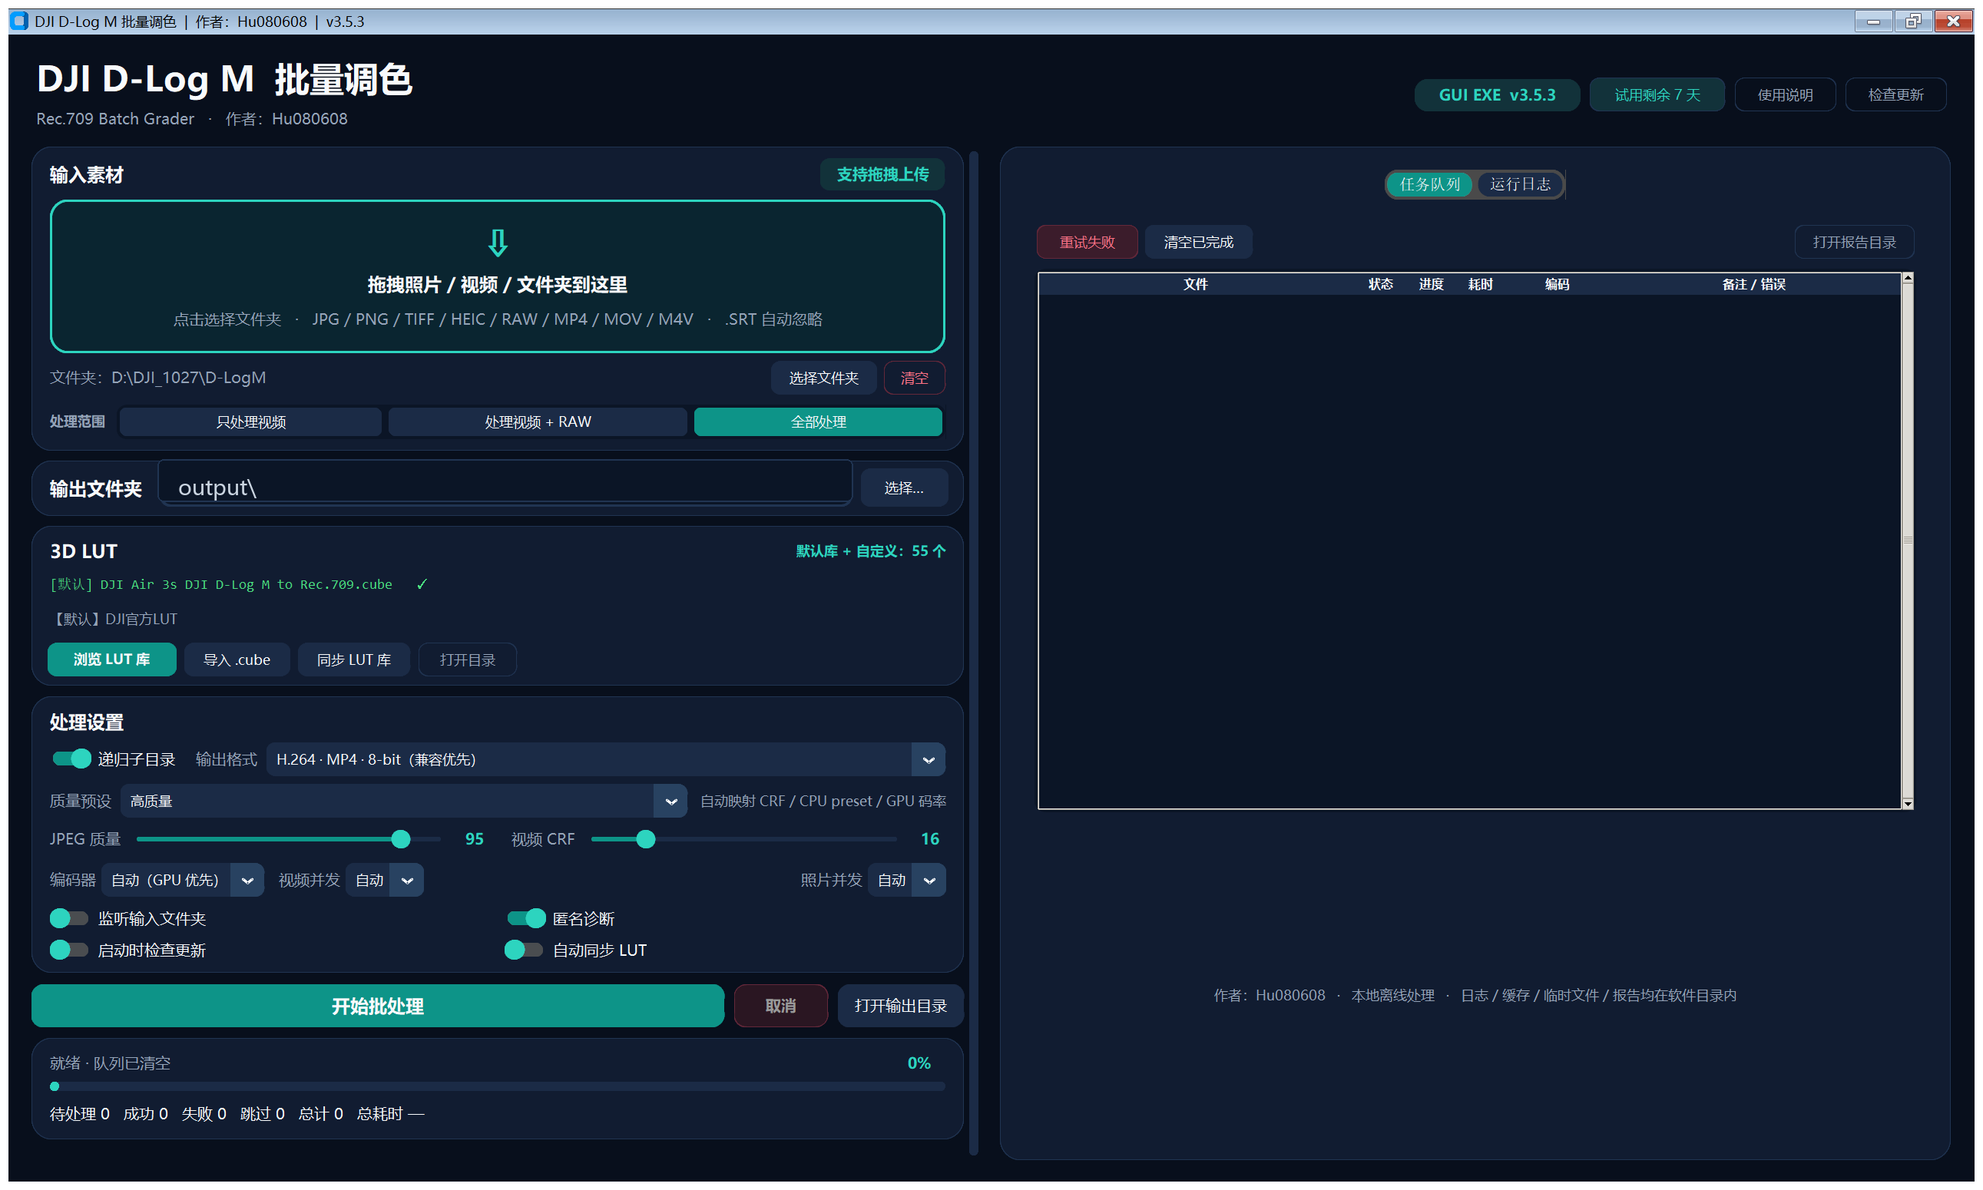
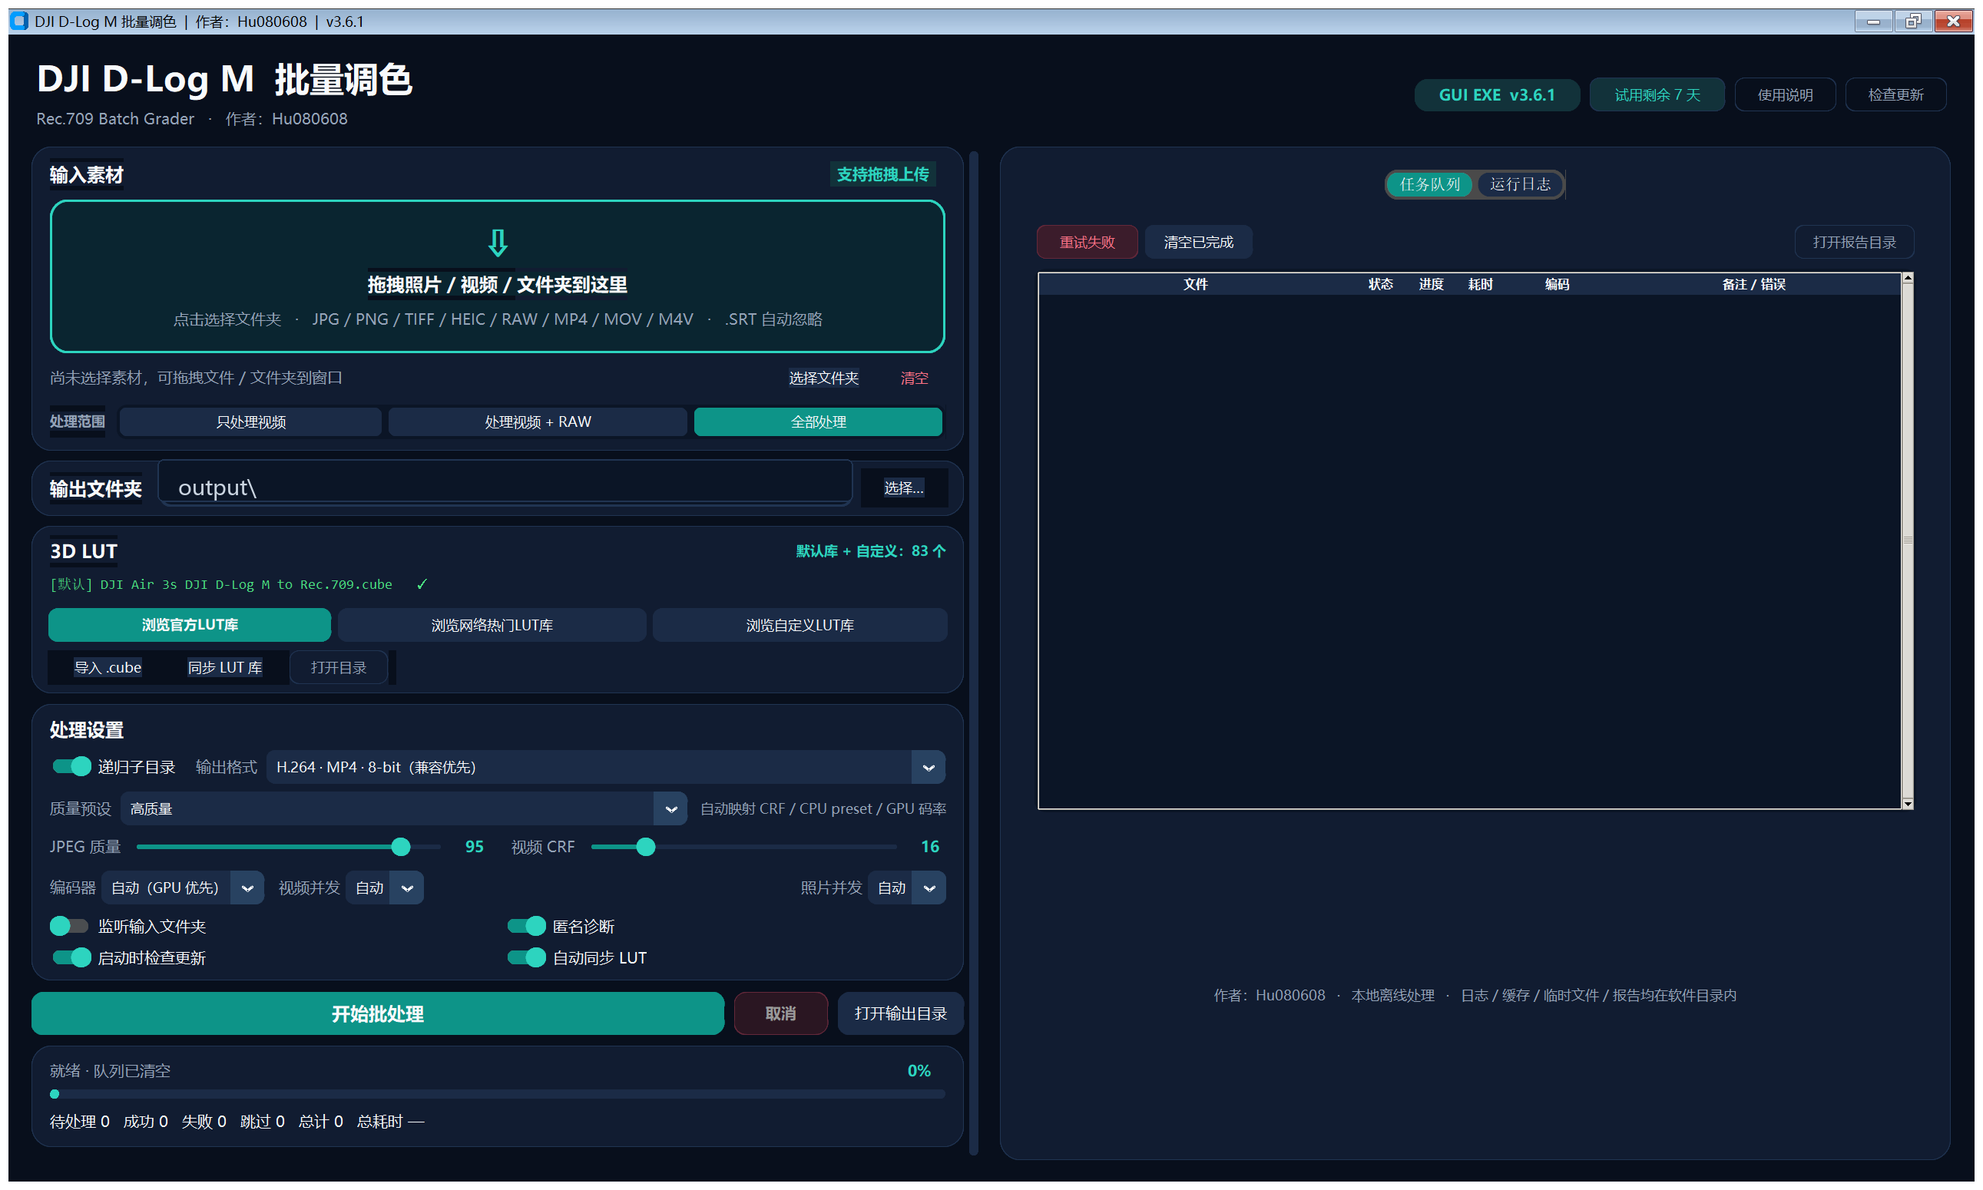
feat: split LUT browsers and shorten update prompt

diff --git a/dlog_grader/gui.py b/dlog_grader/gui.py
@@ -34,7 +34,7 @@ from .processor import (
     BatchProcessor, BatchResult, is_file_in_scope, normalize_scope,
 )
 from .watcher import FolderWatcher
-from .updater import check_for_update, launch_updater
+from .updater import check_for_update, extract_update_summary, launch_updater
 
 # Palette
 BG = "#080f1c"
@@ -415,17 +415,30 @@ class GraderGUI:
             text_color=OK, anchor="w", justify="left", wraplength=545,
         )
         self.lut_status_label.grid(row=1, column=0, sticky="ew", padx=16)
-        ctk.CTkLabel(
+        self.lut_meta_label = ctk.CTkLabel(
             card, textvariable=self.lut_meta_var, font=FONT_SMALL,
-            text_color=MUTED, anchor="w", justify="left", wraplength=560,
-        ).grid(row=2, column=0, sticky="ew", padx=16, pady=(2, 0))
+            text_color=MUTED, anchor="w", justify="left", wraplength=540,
+        )
+        self.lut_meta_label.grid(row=2, column=0, sticky="ew", padx=16, pady=(2, 0))
+
+        browse_buttons = ctk.CTkFrame(card, fg_color="transparent")
+        browse_buttons.grid(row=3, column=0, sticky="ew", padx=12, pady=(7, 0))
+        for index in range(3):
+            browse_buttons.grid_columnconfigure(index, weight=1)
+        browse_specs = (
+            ("浏览官方LUT库", "official", FONT_SMALL_BOLD, ACCENT_DARK, "#0f766e"),
+            ("浏览网络热门LUT库", "network", FONT_SMALL, "#1b2b46", "#284261"),
+            ("浏览自定义LUT库", "custom", FONT_SMALL, "#1b2b46", "#284261"),
+        )
+        for index, (label, mode, font, color, hover) in enumerate(browse_specs):
+            ctk.CTkButton(
+                browse_buttons, text=label, width=1, height=30, corner_radius=9,
+                fg_color=color, hover_color=hover, text_color=TEXT,
+                font=font, command=lambda value=mode: self._open_lut_library(value),
+            ).grid(row=0, column=index, sticky="ew", padx=3)
+
         buttons = ctk.CTkFrame(card, fg_color="transparent")
-        buttons.grid(row=3, column=0, sticky="w", padx=14, pady=(7, 8))
-        ctk.CTkButton(
-            buttons, text="浏览 LUT 库", width=112, height=30, corner_radius=9,
-            fg_color=ACCENT_DARK, hover_color="#0f766e", text_color=TEXT,
-            font=FONT_SMALL_BOLD, command=self._open_lut_library,
-        ).pack(side="left")
+        buttons.grid(row=4, column=0, sticky="w", padx=14, pady=(7, 8))
         ctk.CTkButton(
             buttons, text="导入 .cube", width=92, height=30, corner_radius=9,
             fg_color="#1b2b46", hover_color="#284261", text_color=TEXT,
@@ -830,7 +843,7 @@ DJI D-Log M Batch Grader 使用说明
 一、最快开始（4 步）
 1. 把照片、视频或整个文件夹拖到左上拖拽区域。
 2. 选择输出文件夹（默认软件目录下 output/）。
-3. 在“3D LUT”区域点击“浏览 LUT 库”，选择设备与风格；默认 Air 3S。
+3. 在“3D LUT”区域点击“浏览官方LUT库”“浏览网络热门LUT库”或“浏览自定义LUT库”，选择设备与风格；默认 Air 3S。
 4. 选择输出格式，点击“开始批处理”。
 
 二、支持的输入
@@ -854,7 +867,7 @@ ProRes 422 HQ MOV 10-bit：剪辑母版。
 默认 LUT 库内置 83 个 3D LUT：55 个 DJI 官方 LUT（25 个设备/系列）和 28 个“热门网络 LUT”风格。
 程序默认每 24 小时检查一次 DJI 官方目录，发现新机型/LUT 会自动下载补充；
 也可以点击“同步 LUT 库”手动检查。
-点击“浏览 LUT 库”可按来源、设备、类别筛选并支持鼠标滚轮。
+三个浏览按钮分别打开官方、热门网络和自定义 LUT 分区，均支持按设备、类别筛选和鼠标滚轮。
 来源统一分为“默认”和“自定义”；“热门网络 LUT”属于默认内置分区，只有用户导入的 LUT 归为“自定义”。
 也可以点击“导入 .cube”加载自己的 LUT。
 
@@ -1723,7 +1736,7 @@ ProRes 422 HQ MOV 10-bit：剪辑母版。
         else:
             self.lut_status_var.set(
                 f"[{tag}] 未找到：{selected.name}\n"
-                f"路径：{selected}" + chr(10) + "可点击“浏览 LUT 库”或“导入 .cube”重新选择"
+                f"路径：{selected}" + chr(10) + "可点击“浏览官方LUT库”“浏览网络热门LUT库”或“导入 .cube”重新选择"
             )
             self.lut_status_label.configure(text_color=DANGER)
 
@@ -1740,7 +1753,8 @@ ProRes 422 HQ MOV 10-bit：剪辑母版。
         match = next((entry for entry in entries if entry.path.resolve() == current), None)
         if match:
             if match.origin == "默认":
-                self.lut_meta_var.set("【默认】DJI官方LUT")
+                self.lut_meta_var.set("")
+                self.lut_meta_label.grid_remove()
             else:
                 detail = f"[{match.origin}] {match.device} / {match.category}"
                 if match.profile:
@@ -1748,8 +1762,10 @@ ProRes 422 HQ MOV 10-bit：剪辑母版。
                 if match.description:
                     detail += f" · {match.description}"
                 self.lut_meta_var.set(detail)
+                self.lut_meta_label.grid()
         elif current.exists():
             self.lut_meta_var.set("自定义 LUT（未在 manifest 中登记）")
+            self.lut_meta_label.grid()
         else:
             self.lut_meta_var.set("LUT 文件不存在，请重新选择。")
 
@@ -1778,15 +1794,36 @@ ProRes 422 HQ MOV 10-bit：剪辑母版。
         self._lut_update_thread = threading.Thread(target=_worker, daemon=True)
         self._lut_update_thread.start()
 
-    def _open_lut_library(self) -> None:
+    def _open_lut_library(self, mode: str = "official") -> None:
         if not self.lut_entries:
             self._refresh_lut_library()
+        entries = list(self.lut_entries.values())
+        if mode == "official":
+            entries = [e for e in entries if e.origin == "默认" and e.device != "热门网络 LUT"]
+            title = "DJI 官方 LUT 库"
+            subtitle = "按 DJI 设备 / 类别筛选官方 LUT"
+        elif mode == "network":
+            entries = [e for e in entries if e.device == "热门网络 LUT"]
+            title = "热门网络 LUT 库"
+            subtitle = "按电影感、胶片风、日系、赛博朋克等风格筛选"
+        elif mode == "custom":
+            entries = [e for e in entries if e.origin == "自定义"]
+            title = "自定义 LUT 库"
+            subtitle = "用户导入或放置在 luts/custom/ 下的 LUT"
+        else:
+            title = "LUT 库"
+            subtitle = "滚动查看 / 搜索 / 按设备筛选，双击可直接使用"
+        if not entries:
+            messagebox.showinfo(title, "当前分区没有可用的 LUT。")
+            return
         current = project_path(self.lut_path_var.get())
         LutLibraryDialog(
             self.root,
-            list(self.lut_entries.values()),
+            entries,
             current,
             self._apply_lut_entry,
+            title=title,
+            subtitle=subtitle,
         )
 
     def _confirm_lut(self, candidate: LutCandidate) -> bool:
@@ -1890,7 +1927,7 @@ ProRes 422 HQ MOV 10-bit：剪辑母版。
             messagebox.showerror(
                 "LUT 错误",
                 f"当前选择的 LUT 不存在：\n{selected_lut}\n\n"
-                "请点击“浏览 LUT 库”或“导入 .cube”重新选择。",
+                "请点击“浏览官方LUT库”“浏览网络热门LUT库”或“导入 .cube”重新选择。",
             )
             return
         try:
@@ -2055,12 +2092,10 @@ ProRes 422 HQ MOV 10-bit：剪辑母版。
                         else:
                             self._append_log("INFO", f"GitHub Releases 检查完成，当前 v{__version__} 已是最新。")
                     else:
-                        notes = str(info.notes or "").strip()
-                        if len(notes) > 900:
-                            notes = notes[:900] + "…"
+                        notes = extract_update_summary(str(info.notes or ""))
                         text = "发现新版本 v" + str(info.version) + "。" + chr(10) * 2
                         if notes:
-                            text += notes + chr(10) * 2
+                            text += "本次更新：" + chr(10) + notes + chr(10) * 2
                         text += "是否进入独立更新进度页并安装？"
                         if messagebox.askyesno("发现新版本", text):
                             self._download_update(info)

diff --git a/dlog_grader/lut_dialog.py b/dlog_grader/lut_dialog.py
@@ -33,6 +33,9 @@ class LutLibraryDialog(ctk.CTkToplevel):
         entries: list[LutEntry],
         current_path: Path | None,
         on_select: Callable[[LutEntry], None],
+        *,
+        title: str = "LUT 库",
+        subtitle: str = "滚动查看 / 搜索 / 按设备筛选，双击可直接使用",
     ):
         super().__init__(master)
         self.entries = sorted(entries, key=lambda e: (e.device.casefold(), e.category.casefold(), e.name.casefold()))
@@ -40,7 +43,7 @@ class LutLibraryDialog(ctk.CTkToplevel):
         self.on_select = on_select
         self.filtered: list[LutEntry] = []
         self.row_entries: dict[str, LutEntry] = {}
-        self.title("LUT 库 — 按设备筛选")
+        self.title(f"{title} — 按设备筛选")
         self.geometry("900x620")
         self.minsize(720, 480)
         self.configure(fg_color=BG)
@@ -53,11 +56,10 @@ class LutLibraryDialog(ctk.CTkToplevel):
         header.grid(row=0, column=0, sticky="ew", padx=20, pady=(18, 8))
         header.grid_columnconfigure(0, weight=1)
         ctk.CTkLabel(
-            header, text="DJI LUT 库", font=FONT_DIALOG_TITLE, text_color=TEXT,
+            header, text=title, font=FONT_DIALOG_TITLE, text_color=TEXT,
         ).grid(row=0, column=0, sticky="w")
         ctk.CTkLabel(
-            header, text="滚动查看 / 搜索 / 按设备筛选，双击可直接使用",
-            font=FONT_BODY, text_color=MUTED,
+            header, text=subtitle, font=FONT_BODY, text_color=MUTED,
         ).grid(row=1, column=0, sticky="w", pady=(2, 0))
         self.count_label = ctk.CTkLabel(
             header, text="", font=FONT_BODY_BOLD, text_color=ACCENT,
@@ -175,8 +177,10 @@ class LutLibraryDialog(ctk.CTkToplevel):
     def _build_filter_values(self) -> None:
         devices = sorted({e.device for e in self.entries}, key=str.casefold)
         categories = sorted({e.category for e in self.entries}, key=str.casefold)
+        origins = sorted({e.origin for e in self.entries}, key=str.casefold)
         self.device_menu.configure(values=["全部设备"] + devices)
         self.category_menu.configure(values=["全部类别"] + categories)
+        self.source_menu.configure(values=["全部来源"] + origins)
 
     def _reset_filters(self) -> None:
         self.device_var.set("全部设备")

diff --git a/dlog_grader/updater.py b/dlog_grader/updater.py
@@ -36,6 +36,8 @@ ASSET_SUFFIX = ".zip"
 USER_AGENT = f"DJI-DLogM-BatchGrader/{__version__}"
 UPDATE_REQUEST_FILE = UPDATES_DIR / "update_request.json"
 UPDATER_EXE_NAME = "DJI_Updater.exe"
+UPDATE_SUMMARY_START = "<!-- UPDATE_SUMMARY_START -->"
+UPDATE_SUMMARY_END = "<!-- UPDATE_SUMMARY_END -->"
 
 
 class UpdateError(RuntimeError):
@@ -122,6 +124,41 @@ def check_for_update(timeout: int = 10) -> UpdateInfo | None:
         asset_size=int(asset.get("size") or 0),
         page_url=str(data.get("html_url") or GITHUB_RELEASES_URL),
     )
+
+def extract_update_summary(notes: str, *, max_lines: int = 8, max_chars: int = 700) -> str:
+    """Return only the concise change summary for the update prompt.
+
+    Release bodies may contain full release notes for the GitHub page. The
+    desktop prompt should show a short, change-focused excerpt instead.
+    """
+    newline = chr(10)
+    text = str(notes or "").replace(chr(13) + newline, newline).strip()
+    if not text:
+        return ""
+    if UPDATE_SUMMARY_START in text and UPDATE_SUMMARY_END in text:
+        text = text.split(UPDATE_SUMMARY_START, 1)[1].split(UPDATE_SUMMARY_END, 1)[0]
+    else:
+        lines = [line.rstrip() for line in text.splitlines()]
+        bullets = [line for line in lines if line.lstrip().startswith(("- ", "* "))]
+        if bullets:
+            text = newline.join(bullets[:max_lines])
+        else:
+            text = newline.join(line for line in lines if line.strip())
+    result_lines = []
+    for line in text.splitlines():
+        line = line.strip()
+        if not line:
+            continue
+        if len(line) > 180:
+            line = line[:180].rstrip() + "…"
+        result_lines.append(line)
+        if len(result_lines) >= max_lines:
+            break
+    result = newline.join(result_lines).strip()
+    if len(result) > max_chars:
+        result = result[:max_chars].rstrip() + "…"
+    return result
+
 
 def write_update_request(info: UpdateInfo) -> Path:
     """Persist update metadata for the independent updater process."""

diff --git a/tests/test_core.py b/tests/test_core.py
@@ -18,6 +18,7 @@ from dlog_grader.encoders import choose_encoder  # noqa: E402
 from dlog_grader.ffmpeg_tools import build_video_command  # noqa: E402
 from dlog_grader.formats import OUTPUT_PROFILES, QUALITY_PRESETS, get_output_profile  # noqa: E402
 from dlog_grader.jobs import JOB_STATUS_LABELS, JOB_STATUS_ORDER, JobRecord, QueueStore, format_duration_hms  # noqa: E402
+from dlog_grader.updater import extract_update_summary  # noqa: E402
 from dlog_grader.lut import CubeLUT  # noqa: E402
 from dlog_grader.lut_library import scan_lut_library  # noqa: E402
 from dlog_grader._license_guard import LicenseError, LicenseManager, canonical_payload  # noqa: E402
@@ -87,6 +88,18 @@ class CoreTests(unittest.TestCase):
         self.assertIn("-map_metadata", cmd)
         self.assertIn("copy", cmd)
         self.assertIn("bt709", cmd)
+
+    def test_update_summary_is_short(self):
+        notes = (
+            "<!-- UPDATE_SUMMARY_START -->" + chr(10)
+            + "- 修复 A" + chr(10) + "- 新增 B" + chr(10)
+            + "<!-- UPDATE_SUMMARY_END -->" + chr(10)
+            + "## 完整发布说明" + chr(10) + "这里是很长的大段内容。"
+        )
+        summary = extract_update_summary(notes)
+        self.assertIn("修复 A", summary)
+        self.assertIn("新增 B", summary)
+        self.assertNotIn("完整发布说明", summary)
 
     def test_queue_clear_state_roundtrip(self):
         work = PROJECT_ROOT / "temp" / "queue_clear_unit"

diff --git a/dlog_grader/__init__.py b/dlog_grader/__init__.py
@@ -1,3 +1,3 @@
 """DJI D-Log M batch LUT grading application."""
 
-__version__ = "3.6.0"
+__version__ = "3.6.1"

diff --git a/README.md b/README.md
@@ -1,7 +1,7 @@
 # DJI D-Log M Batch Grader
 
 **作者：Hu080608**  
-**版本：3.6.0**  
+**版本：3.6.1**  
 **平台：Windows 10/11 x64**  
 **许可：商业软件，买断授权**
 
@@ -67,7 +67,7 @@ https://github.com/Hu080608/DJI-BatchGrader/releases
 下载最新的：
 
 ```text
-DJI_DLogM_BatchGrader_Windows_x64_v3.6.0.zip
+DJI_DLogM_BatchGrader_Windows_x64_v3.6.1.zip
 ```
 
 ### 2. 解压并启动
@@ -111,7 +111,7 @@ DJI_DLogM_BatchGrader.exe
 1. **导入素材**：把照片、视频或文件夹拖入左上角拖拽区域，或点击“选择文件夹”（JPG/PNG/TIFF、HEIC、RAW、MP4/MOV/M4V）。
 2. **选择处理范围**：默认“全部处理”；也可选择“只处理视频”或“处理视频 + RAW”。范围外的普通照片会被跳过并计数，不会中断批处理。
 3. **选择输出目录**：默认输出到软件目录下的 `output\`。
-4. **选择 LUT**：点击“浏览 LUT 库”；默认库按设备/类别分组，也可以导入自己的 `.cube`。
+4. **选择 LUT**：点击“浏览官方LUT库”“浏览网络热门LUT库”或“浏览自定义LUT库”；各入口按设备/风格分组，也可以导入自己的 `.cube`。
 5. **选择输出格式**：按交付需求选择 H.264、HEVC 8-bit、HEVC 10-bit 或 ProRes。
 6. **开始处理**：点击“开始批处理”；右侧任务队列会显示每个文件的进度、编码器、耗时和错误信息。
 7. **查看结果**：任务完成后打开输出目录；报告位于 `reports\`，界面和日志会显示本次处理总耗时。

diff --git a/docs/RELEASE_NOTES.md b/docs/RELEASE_NOTES.md
@@ -1,4 +1,17 @@
-# DJI D-Log M Batch Grader v3.6.0
+# DJI D-Log M Batch Grader v3.6.1
+
+<!-- UPDATE_SUMMARY_START -->
+- “3D LUT”区拆分为官方、热门网络、自定义三个独立浏览入口。
+- 删除默认 LUT 下方的冗余说明文字。
+- 更新提示只显示本次变更摘要，不再显示整段发布说明。
+<!-- UPDATE_SUMMARY_END -->
+
+## 界面调整
+
+- “3D LUT”区新增三个按钮：浏览官方LUT库、浏览网络热门LUT库、浏览自定义LUT库。
+- 三个入口分别只显示对应分区的 LUT，减少筛选步骤。
+- 默认 LUT 下方不再显示“【默认】DJI 官方LUT”的重复说明。
+- 更新提示改为读取发布说明中的“更新摘要”，仅显示变化内容。
 
 ## 热门网络 LUT 分区
 
@@ -102,8 +115,8 @@
 - 应用更新唯一来源：GitHub Releases。
 - 发布资产：
   ```text
-  DJI_DLogM_BatchGrader_Windows_x64_v3.6.0.zip
-  DJI_DLogM_BatchGrader_Windows_x64_v3.6.0.zip.sha256
+  DJI_DLogM_BatchGrader_Windows_x64_v3.6.1.zip
+  DJI_DLogM_BatchGrader_Windows_x64_v3.6.1.zip.sha256
   ```
 - GitHub 公开仓库仅用于软件下载、用户文档和问题反馈；源码、私钥和授权签发工具不上传。
 

diff --git a/docs/GITHUB_RELEASES.md b/docs/GITHUB_RELEASES.md
@@ -16,14 +16,14 @@ https://github.com/Hu080608/DJI-BatchGrader/releases
 每次发布使用一个版本标签，例如：
 
 ```text
-v3.6.0
+v3.6.1
 ```
 
 发布资产必须包含：
 
 ```text
-DJI_DLogM_BatchGrader_Windows_x64_v3.6.0.zip
-DJI_DLogM_BatchGrader_Windows_x64_v3.6.0.zip.sha256
+DJI_DLogM_BatchGrader_Windows_x64_v3.6.1.zip
+DJI_DLogM_BatchGrader_Windows_x64_v3.6.1.zip.sha256
 ```
 
 - ZIP 内根目录必须是 `DJI_DLogM_BatchGrader/`
@@ -81,7 +81,7 @@ DJI_DLogM_BatchGrader_Windows_x64_v3.6.0.zip.sha256
 ## 本地打包脚本
 
 ```powershell
-powershell -ExecutionPolicy Bypass -File tools\package_release.ps1 -Version v3.6.0
+powershell -ExecutionPolicy Bypass -File tools\package_release.ps1 -Version v3.6.1
 ```
 
 脚本会从 `dist\DJI_DLogM_BatchGrader` 生成 ZIP 和 `.sha256` 到 `release\`。公开 GitHub 仓库不包含源码，发布包由本地受控构建上传。

diff --git a/README_EXE.md b/README_EXE.md
@@ -1,7 +1,7 @@
 # DJI D-Log M Batch Grader — Windows GUI EXE
 
 **作者：Hu080608**  
-**版本：3.6.0**  
+**版本：3.6.1**  
 **许可：商业软件，购买后授权使用**  
 **仅 Windows 10/11 x64 GUI 版本，无 CLI**
 
@@ -94,7 +94,7 @@ reports\batch_YYYYMMDD_HHMMSS.csv
 luts\DJI Air 3S\Normalization\DJI Air 3s DJI D-Log M to Rec.709.cube
 ```
 
-点击“浏览 LUT 库”可打开按设备/类别筛选、可搜索、支持滚轮的选择器。
+点击“浏览官方LUT库”“浏览网络热门LUT库”或“浏览自定义LUT库”，可分别打开对应分区，并按设备/类别筛选、搜索、滚轮浏览。
 点击“导入 .cube”可选择自定义 LUT，外部文件会复制到 `luts\custom\`。
 
 程序默认每 24 小时自动检查 DJI 官方 LUT 目录，新增机型/LUT 会自动下载补充；也可点击“同步 LUT 库”手动检查。
